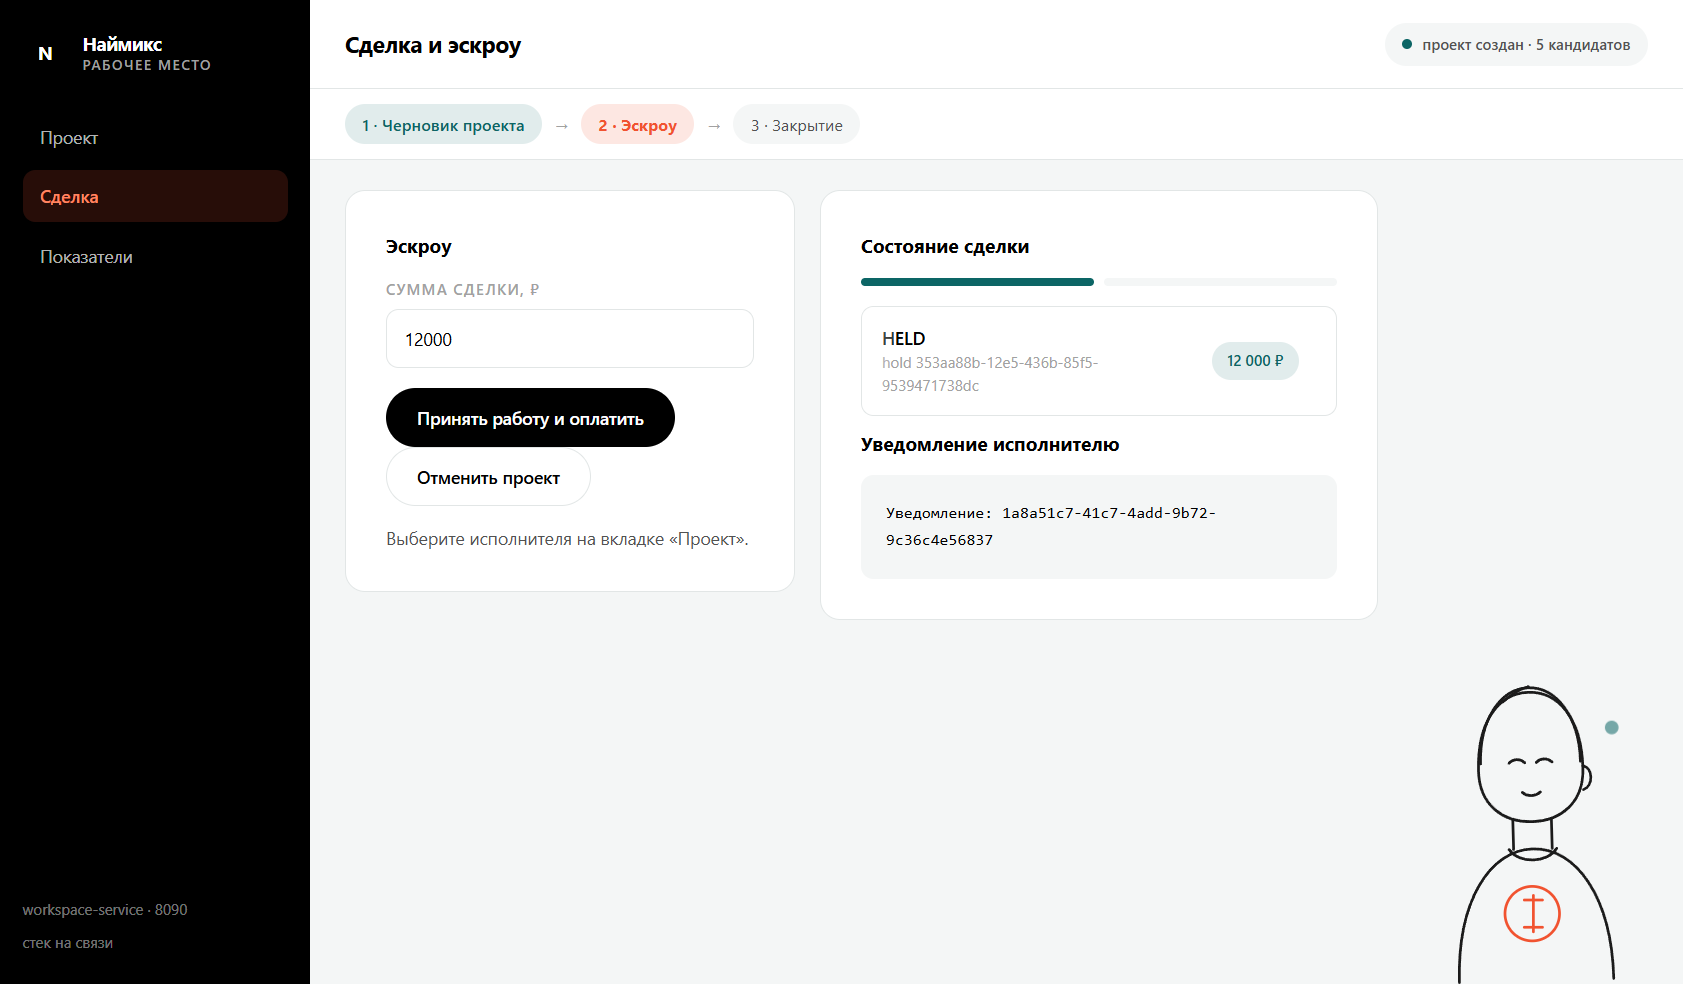
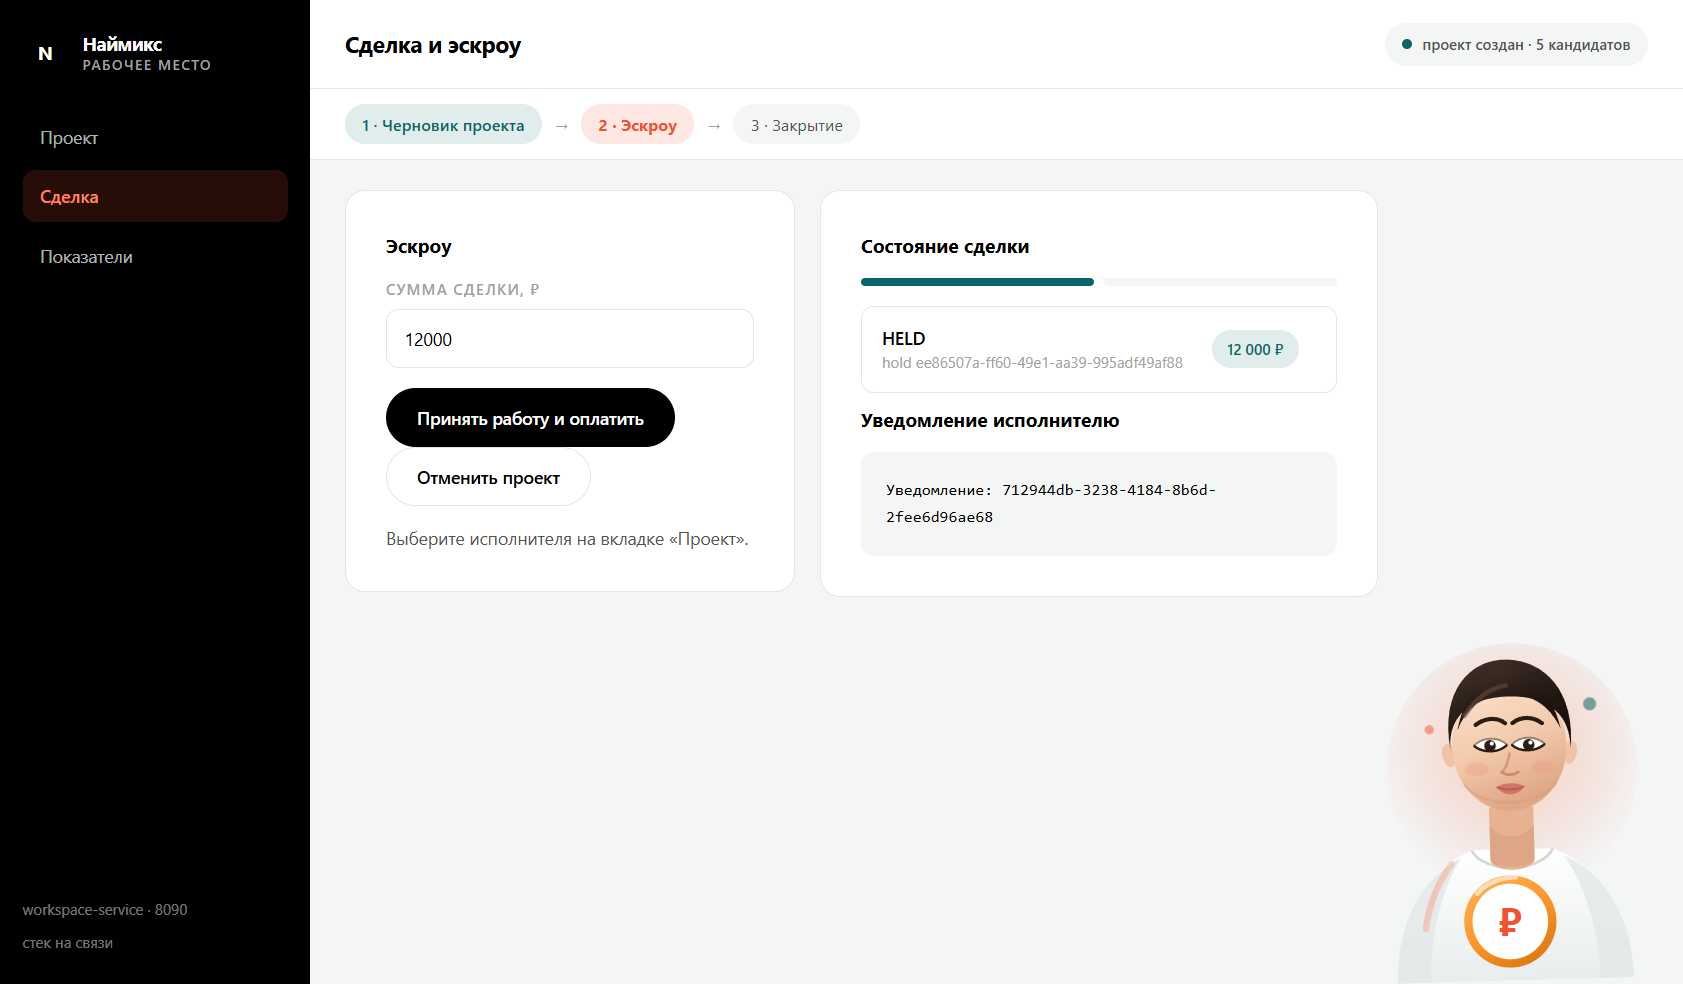
feat(desktop): детальная иллюстрация персонажа с градиентами, лицом и реквизитом по разделам

Changed region(s): [[0.8342, 0.6707, 0.9578, 1.0], [0.4944, 0.3354, 0.7724, 0.4573], [0.5253, 0.4878, 0.7106, 0.5488]]

diff --git a/desktop/renderer/index.html b/desktop/renderer/index.html
@@ -115,42 +115,111 @@
 
     </div>
 
-    <svg class="character" id="character" viewBox="0 0 240 340" fill="none" aria-hidden="true">
-      <g class="ch-figure" stroke="#1b1b1b" stroke-width="2.4" stroke-linecap="round" stroke-linejoin="round">
-        <path d="M52 340 C52 268 82 224 120 224 C158 224 188 268 188 340"/>
-        <path d="M103 224 L103 198"/>
-        <path d="M137 224 L137 198"/>
-        <path d="M74 154 C74 110 94 86 120 86 C146 86 166 110 166 154 C166 184 146 200 120 200 C94 200 74 184 74 154 Z"/>
-        <path d="M76 148 C76 108 96 82 120 82 C144 82 164 108 164 148"/>
-        <path d="M97 94 C105 87 112 83 120 81"/>
-        <path d="M166 152 C175 154 175 170 166 173"/>
-        <path d="M101 148 C105 144 111 144 115 148"/>
-        <path d="M125 148 C129 144 135 144 139 148"/>
-        <path d="M112 174 C116 178 124 178 128 174"/>
-        <path d="M99 224 C107 237 133 237 141 224"/>
+    <svg class="character" id="character" viewBox="0 0 320 420" fill="none" aria-hidden="true">
+      <defs>
+        <radialGradient id="ch-halo" cx="50%" cy="42%" r="58%">
+          <stop offset="0%" stop-color="#fe982d" stop-opacity="0.30"/>
+          <stop offset="65%" stop-color="#f15330" stop-opacity="0.10"/>
+          <stop offset="100%" stop-color="#f15330" stop-opacity="0"/>
+        </radialGradient>
+        <linearGradient id="ch-skin" x1="0" y1="0" x2="0.35" y2="1">
+          <stop offset="0%" stop-color="#fce3cf"/>
+          <stop offset="55%" stop-color="#f4cbae"/>
+          <stop offset="100%" stop-color="#dfa886"/>
+        </linearGradient>
+        <linearGradient id="ch-shirt" x1="0" y1="0" x2="0" y2="1">
+          <stop offset="0%" stop-color="#ffffff"/>
+          <stop offset="100%" stop-color="#e9eded"/>
+        </linearGradient>
+        <linearGradient id="ch-hair" x1="0.1" y1="0" x2="0.6" y2="1">
+          <stop offset="0%" stop-color="#43312a"/>
+          <stop offset="55%" stop-color="#251a14"/>
+          <stop offset="100%" stop-color="#150e0a"/>
+        </linearGradient>
+        <linearGradient id="ch-rim" x1="0" y1="0" x2="1" y2="1">
+          <stop offset="0%" stop-color="#ff8562" stop-opacity="0.95"/>
+          <stop offset="100%" stop-color="#ff8562" stop-opacity="0"/>
+        </linearGradient>
+        <linearGradient id="ch-coin" x1="0" y1="0" x2="0.6" y2="1">
+          <stop offset="0%" stop-color="#ffb45c"/>
+          <stop offset="55%" stop-color="#fe982d"/>
+          <stop offset="100%" stop-color="#e07c14"/>
+        </linearGradient>
+      </defs>
+
+      <circle cx="164" cy="186" r="136" fill="url(#ch-halo)"/>
+
+      <g class="ch-figure">
+        <path d="M34 420 C34 348 72 296 118 278 L206 278 C252 296 290 348 290 420 Z" fill="url(#ch-shirt)"/>
+        <path d="M34 420 C34 352 66 304 106 286 C86 316 70 366 70 420 Z" fill="#e3e8e8" opacity="0.85"/>
+        <path d="M290 420 C290 352 258 304 218 286 C238 316 254 366 254 420 Z" fill="#e3e8e8" opacity="0.85"/>
+        <path d="M118 278 C130 304 194 304 206 278" stroke="#d3d9d9" stroke-width="3" fill="none"/>
+        <path d="M96 292 C80 312 70 336 66 362" stroke="url(#ch-rim)" stroke-width="7" stroke-linecap="round" opacity="0.65"/>
+
+        <path d="M138 232 L138 288 C138 304 186 304 186 288 L186 232 Z" fill="#e7b291"/>
+        <path d="M138 252 C150 268 174 268 186 252 L186 288 C186 300 138 300 138 288 Z" fill="#d59b7b" opacity="0.5"/>
+
+        <ellipse cx="162" cy="166" rx="62" ry="70" fill="url(#ch-skin)"/>
+        <path d="M100 164 C90 156 84 172 93 184 C97 189 102 187 102 182" fill="#f0c3a6"/>
+        <path d="M224 164 C234 156 240 172 231 184 C227 189 222 187 222 182" fill="#f0c3a6"/>
+        <path d="M112 206 C130 234 194 234 212 206" stroke="#d59b7b" stroke-width="3" fill="none" opacity="0.45"/>
+
+        <path d="M98 168 C88 104 122 70 162 72 C202 74 236 108 228 172 C230 138 210 112 162 112 C114 112 96 138 98 168 Z" fill="url(#ch-hair)"/>
+        <path d="M106 148 C116 102 138 82 162 82 C188 84 208 104 218 148 C206 122 188 110 162 110 C134 110 116 122 106 148 Z" fill="url(#ch-hair)"/>
+        <path d="M114 132 C128 112 144 102 160 100" stroke="#63493b" stroke-width="5" stroke-linecap="round" opacity="0.6"/>
+
+        <path d="M126 142 C137 134 150 134 158 141" stroke="#2a1c15" stroke-width="4.5" stroke-linecap="round"/>
+        <path d="M166 141 C175 134 188 134 198 142" stroke="#2a1c15" stroke-width="4.5" stroke-linecap="round"/>
+
+        <path d="M124 165 C134 156 150 156 159 165 C150 173 134 173 124 165 Z" fill="#ffffff"/>
+        <path d="M165 165 C174 156 190 156 200 165 C190 173 174 173 165 165 Z" fill="#ffffff"/>
+        <circle cx="141" cy="165" r="6.2" fill="#2b1d16"/>
+        <circle cx="183" cy="165" r="6.2" fill="#2b1d16"/>
+        <circle cx="143" cy="162.6" r="2.2" fill="#ffffff"/>
+        <circle cx="185" cy="162.6" r="2.2" fill="#ffffff"/>
+        <path d="M124 165 C134 173 150 173 159 165" stroke="#2a1c15" stroke-width="2.6" stroke-linecap="round" fill="none"/>
+        <path d="M165 165 C174 173 190 173 200 165" stroke="#2a1c15" stroke-width="2.6" stroke-linecap="round" fill="none"/>
+        <path d="M124 164 C134 155 150 155 159 164" stroke="#3a2a22" stroke-width="2" stroke-linecap="round" fill="none" opacity="0.5"/>
+        <path d="M165 164 C174 155 190 155 200 164" stroke="#3a2a22" stroke-width="2" stroke-linecap="round" fill="none" opacity="0.5"/>
+
+        <path d="M162 174 C160 184 158 190 153 194" stroke="#d59b7b" stroke-width="3" stroke-linecap="round"/>
+        <path d="M153 194 C158 198 166 198 171 194" stroke="#c98d6d" stroke-width="3" stroke-linecap="round"/>
+
+        <path d="M147 210 C155 205 169 205 177 210 C169 221 155 221 147 210 Z" fill="#d4756a"/>
+        <path d="M147 210 C155 214 169 214 177 210" stroke="#b85d54" stroke-width="2" fill="none"/>
+
+        <ellipse cx="126" cy="190" rx="13" ry="7" fill="#f19a80" opacity="0.32"/>
+        <ellipse cx="198" cy="190" rx="13" ry="7" fill="#f19a80" opacity="0.32"/>
+
+        <text x="162" y="392" text-anchor="middle" font-family="Onest, Segoe UI, Arial, sans-serif" font-size="38" font-weight="700" fill="#f15330" opacity="0.92">N</text>
       </g>
 
-      <g class="ch-prop ch-prop--project" stroke="#f15330" stroke-width="2.4" stroke-linecap="round">
-        <rect x="86" y="252" width="68" height="52" rx="6"/>
-        <path d="M96 266 H144"/>
-        <path d="M96 278 H136"/>
-        <path d="M96 290 H126"/>
+      <g class="ch-prop ch-prop--project">
+        <rect x="92" y="312" width="140" height="90" rx="14" fill="#ffffff" stroke="#dfe4e4" stroke-width="2"/>
+        <path d="M92 340 H232" stroke="#dfe4e4" stroke-width="2"/>
+        <path d="M110 360 H196" stroke="#f15330" stroke-width="5" stroke-linecap="round"/>
+        <path d="M110 378 H168" stroke="#c9cfcf" stroke-width="5" stroke-linecap="round"/>
+        <circle cx="208" cy="366" r="9" fill="#f15330" opacity="0.9"/>
       </g>
 
-      <g class="ch-prop ch-prop--deal" stroke="#f15330" stroke-width="2.4" stroke-linecap="round">
-        <circle cx="120" cy="278" r="24"/>
-        <path d="M113 266 H129"/>
-        <path d="M113 290 H129"/>
-        <path d="M121 262 V294"/>
+      <g class="ch-prop ch-prop--deal">
+        <circle cx="162" cy="352" r="50" fill="url(#ch-coin)"/>
+        <circle cx="162" cy="352" r="41" fill="#ffffff"/>
+        <text x="162" y="368" text-anchor="middle" font-family="Onest, Segoe UI, Arial, sans-serif" font-size="42" font-weight="700" fill="#f15330">₽</text>
+        <path d="M126 322 C136 310 152 304 168 304" stroke="#ffffff" stroke-width="5" stroke-linecap="round" opacity="0.6"/>
       </g>
 
-      <g class="ch-prop ch-prop--kpi" stroke="#f15330" stroke-width="2.4" stroke-linecap="round">
-        <path d="M88 300 L108 282 L124 292 L152 258"/>
-        <path d="M86 300 V256" opacity="0.45"/>
-        <circle cx="152" cy="258" r="4" fill="#f15330" stroke="none"/>
+      <g class="ch-prop ch-prop--kpi">
+        <rect x="92" y="310" width="140" height="92" rx="14" fill="#ffffff" stroke="#dfe4e4" stroke-width="2"/>
+        <path d="M108 386 H216" stroke="#c9cfcf" stroke-width="3" stroke-linecap="round"/>
+        <rect x="116" y="368" width="18" height="18" rx="5" fill="#c9cfcf"/>
+        <rect x="146" y="350" width="18" height="36" rx="5" fill="#f15330" opacity="0.9"/>
+        <rect x="176" y="330" width="18" height="56" rx="5" fill="#0c6565" opacity="0.9"/>
+        <path d="M112 342 L144 326 L172 306" stroke="#fe982d" stroke-width="4" stroke-linecap="round" opacity="0.9"/>
       </g>
 
-      <circle class="ch-dot" cx="190" cy="118" r="6" fill="#0c6565" opacity="0.55"/>
+      <circle class="ch-dot" cx="248" cy="120" r="7" fill="#0c6565" opacity="0.55"/>
+      <circle class="ch-dot ch-dot--slow" cx="74" cy="150" r="5" fill="#f15330" opacity="0.5"/>
     </svg>
   </main>
 </div>

diff --git a/desktop/renderer/styles.css b/desktop/renderer/styles.css
@@ -211,9 +211,9 @@ body {
 
 .character {
   position: absolute;
-  right: 12px;
+  right: 22px;
   bottom: 0;
-  width: 218px;
+  width: 236px;
   z-index: 0;
   pointer-events: none;
   user-select: none;
@@ -250,6 +250,11 @@ body[data-view="kpi"] .ch-prop--kpi {
 .ch-dot {
   transform-origin: 190px 118px;
   animation: ch-float 5s ease-in-out infinite;
+}
+
+.ch-dot--slow {
+  animation-duration: 7s;
+  animation-direction: alternate-reverse;
 }
 
 @keyframes ch-float {

diff --git a/README.md b/README.md
@@ -19,10 +19,10 @@
 2. [02-escrow-held.png](desktop/screenshots/02-escrow-held.png) — сделка, эскроу HELD, уведомление
 3. [03-kpi.png](desktop/screenshots/03-kpi.png) — показатели аналитики
 
-Персонаж в правом нижнем углу нарисован контурной линией и меняется при переходе между
-разделами: на «Проекте» он с блокнотом, на «Сделке» — с монетой, на «Показателях» — с графиком.
-Поза слегка наклоняется, а при прокрутке страницы фигура плавно смещается вместе с контентом
-(переменная `--scroll` и `data-view` на `body`).
+Персонаж в правом нижнем углу — векторная иллюстрация с градиентами, светом и деталями лица.
+Он меняется при переходе между разделами: на «Проекте» держит карточку задачи, на «Сделке» —
+монету с ₽, на «Показателях» — карточку с графиком. Поза слегка наклоняется, а при прокрутке
+фигура плавно смещается вместе с контентом (переменная `--scroll` и `data-view` на `body`).
 
 Electron-приложение (`desktop/`) — рабочее место заказчика: создание проекта с ИИ-описанием,
 подбор исполнителей, эскроу-сделка, показатели аналитики. Стиль повторяет сайт компании:
